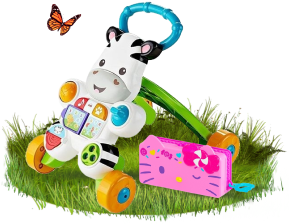
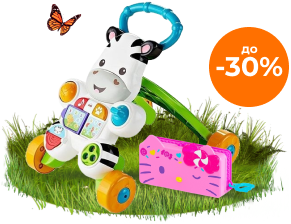
update ru

diff --git a/src/scss/modules/_promo1.scss b/src/scss/modules/_promo1.scss
@@ -45,6 +45,7 @@
     grid-row: 1/ 3;
     &.ru{
       background: url("/assets/img/promo/child1_ru.jpg") top center no-repeat;
+      background-size: cover;
     }
   }
 
@@ -54,6 +55,7 @@
     grid-row: 1/ 2;
     &.ru{
       background: url("/assets/img/promo/care1_ru.jpg") top center no-repeat;
+      background-size: cover;
     }
   }
 
@@ -63,6 +65,7 @@
     grid-row: 3/ 5;
     &.ru{
       background: url("/assets/img/promo/care2_ru.jpg") top center no-repeat;
+      background-size: cover;
     }
   }
 
@@ -73,6 +76,7 @@
 
     &.ru{
       background: url("/assets/img/promo/child2_ru.jpg") top center no-repeat;
+      background-size: cover;
     }
   }
 
@@ -222,6 +226,20 @@
       max-width: 185px;
       font-size: 20px;
       line-height: 24px;
+    }
+
+    &__sale {
+      font-size: 40px;
+      line-height: 48px;
+
+    }
+
+    &__sub-text {
+      position: absolute;
+      top: 20px;
+      left: 3px;
+      font-size: 8px;
+      line-height: 12px;
     }
   }
 }

diff --git a/src/scss/variables.scss b/src/scss/variables.scss
@@ -16,6 +16,6 @@ $primary10: #313998;
 $primary11: #E0283F;
 $primary12: rgba(224, 40, 63, 0.6);
 
-$font-main: 'Montserrat';
+$font-main: 'Montserrat', sans-serif;
 $font-medium: 'Montserrat Medium';
 $font-bold: 'Montserrat Bold';

diff --git a/src/scss/modules/_brands.scss b/src/scss/modules/_brands.scss
@@ -138,8 +138,8 @@
         margin: 0 auto;
 
         .brands_title {
-          font-size: 33px;
-          line-height: 40px;
+          font-size: 28px;
+          line-height: 30px;
         }
 
         .brands_subtitle {

diff --git a/src/scss/modules/_showcase.scss b/src/scss/modules/_showcase.scss
@@ -111,7 +111,7 @@
           padding-top: 36px;
           flex-direction: column;
           max-width: 296px;
-          margin: 0 auto;
+          margin: 0 auto 20px;
 
           .left, .right {
             flex-grow: 1;

diff --git a/src/scss/modules/_frame3.scss b/src/scss/modules/_frame3.scss
@@ -75,7 +75,7 @@
         display: block;
         text-align: center;
         img {
-          max-width: 100%;
+          //max-width: 100%;
         }
         span {
           margin-top: 12px;

diff --git a/src/scss/modules/_frame4.scss b/src/scss/modules/_frame4.scss
@@ -75,7 +75,7 @@
         display: block;
         text-align: center;
         img {
-          max-width: 100%;
+          //max-width: 100%;
         }
         span {
           margin-top: 12px;

diff --git a/src/scss/_defaults.scss b/src/scss/_defaults.scss
@@ -30,7 +30,7 @@ body {
 	background: #fff4d5;
 }
 .baby_day .container *{
-	font-family: "Montserrat" !important;
+	font-family: $font-main;
 }
 
 .img-wr {

diff --git a/src/scss/modules/_frame1.scss b/src/scss/modules/_frame1.scss
@@ -100,7 +100,7 @@
         text-align: center;
 
         img {
-          max-width: 100%;
+          //max-width: 100%;
         }
 
         span {

diff --git a/src/scss/modules/_frame2.scss b/src/scss/modules/_frame2.scss
@@ -77,7 +77,7 @@
         text-align: center;
 
         img {
-          max-width: 100%;
+          //max-width: 100%;
         }
 
         span {

diff --git a/src/scss/modules/_showcase_f.scss b/src/scss/modules/_showcase_f.scss
@@ -22,5 +22,7 @@
 }
 
 @media only screen and (max-width: 767px) {
-
+  .showcase_f {
+    height: 350px;
+  }
 }

diff --git a/src/scss/common.scss b/src/scss/common.scss
@@ -1,4 +1,4 @@
-//@import "reset";
+@import "reset";
 @import "mixin";
 @import "variables";
 @import "fonts";
